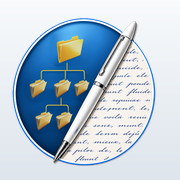
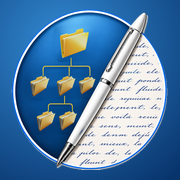
v79: iconiță nouă pe fundal albastru, mai mare (full-bleed)

diff --git a/sw.js b/sw.js
@@ -1,8 +1,8 @@
 /* Notis service worker: app shell cache. HTML = network-first (updates arrive), static = cache-first.
    Voice model files (Mihai, own cache "jarvis-piper-v1") and weather (Open-Meteo) are NOT touched: passed straight to the network. */
-var VERSION='notis-shell-v78';
-var SHELL=['./','index.html','manifest.webmanifest?v=78','icons/sc-new-96.png','icons/sc-search-96.png','icons/sc-cart-96.png',
- 'icons/favicon.png?v=78','icons/icon-192.png?v=78','icons/classic-icon-192.png?v=78','icons/icon-512.png?v=78','icons/apple-touch-icon.png?v=78','art/jad-t.svg','art/jad-b.svg','art/lac-t.svg','art/lac-b.svg','art/tus-t.svg','art/tus-b.svg','art/paper.svg','art/neon-b.svg','art/papyrus.svg','art/pap-t.svg','art/pap-b.svg','art/m-sakura.svg','art/lup-d.webp','art/lup-l.webp','art/flag-hdr.webp','art/salon-marble.svg','art/cleo-q.svg','art/cleo-b.svg','art/cleo-l.svg','art/cleo-pap.svg','art/bg-lup-t.webp','art/bg-mist-t.webp','art/bg-forest-t.webp','art/bg-lake-t.webp','art/bg-sea-t.webp','art/bg-snow-t.webp','art/bg-night-t.webp','art/demo-draw.webp','art/demo-rec.m4a','i18n/en.js','i18n/fr.js','i18n/de.js','i18n/it.js','i18n/hu.js','i18n/ru.js','manifest-en.webmanifest','manifest-fr.webmanifest','manifest-de.webmanifest','manifest-it.webmanifest','manifest-hu.webmanifest','manifest-ru.webmanifest'];
+var VERSION='notis-shell-v79';
+var SHELL=['./','index.html','manifest.webmanifest?v=79','icons/sc-new-96.png','icons/sc-search-96.png','icons/sc-cart-96.png',
+ 'icons/favicon.png?v=79','icons/icon-192.png?v=79','icons/classic-icon-192.png?v=79','icons/icon-512.png?v=79','icons/apple-touch-icon.png?v=79','art/jad-t.svg','art/jad-b.svg','art/lac-t.svg','art/lac-b.svg','art/tus-t.svg','art/tus-b.svg','art/paper.svg','art/neon-b.svg','art/papyrus.svg','art/pap-t.svg','art/pap-b.svg','art/m-sakura.svg','art/lup-d.webp','art/lup-l.webp','art/flag-hdr.webp','art/salon-marble.svg','art/cleo-q.svg','art/cleo-b.svg','art/cleo-l.svg','art/cleo-pap.svg','art/bg-lup-t.webp','art/bg-mist-t.webp','art/bg-forest-t.webp','art/bg-lake-t.webp','art/bg-sea-t.webp','art/bg-snow-t.webp','art/bg-night-t.webp','art/demo-draw.webp','art/demo-rec.m4a','i18n/en.js','i18n/fr.js','i18n/de.js','i18n/it.js','i18n/hu.js','i18n/ru.js','manifest-en.webmanifest','manifest-fr.webmanifest','manifest-de.webmanifest','manifest-it.webmanifest','manifest-hu.webmanifest','manifest-ru.webmanifest'];
 var FONT_HOSTS=/^https:\/\/(fonts\.googleapis\.com|fonts\.gstatic\.com)\//,DSEG=/^https:\/\/cdn\.jsdelivr\.net\/npm\/dseg@/;
 self.addEventListener('install',function(e){e.waitUntil(caches.open(VERSION).then(function(c){
  return Promise.all(SHELL.map(function(u){return c.add(new Request(u,{cache:'reload'})).catch(function(){})}))}).then(function(){return self.skipWaiting()}))});

diff --git a/index.html b/index.html
@@ -43,9 +43,9 @@ if(NL!=='ro')(function(){var SKIP='.ux,textarea,input,select option[data-u],.t,.
  TR.walk=walkN;
  document.addEventListener('DOMContentLoaded',function(){var lm=document.querySelector('link[rel=manifest]');if(lm)lm.href='manifest-'+NL+'.webmanifest?v=57'})})();
 </script>
-<link rel="manifest" href="manifest.webmanifest?v=78">
-<link rel="icon" type="image/png" sizes="48x48" href="icons/favicon.png?v=78">
-<link rel="apple-touch-icon" href="icons/apple-touch-icon.png?v=78">
+<link rel="manifest" href="manifest.webmanifest?v=79">
+<link rel="icon" type="image/png" sizes="48x48" href="icons/favicon.png?v=79">
+<link rel="apple-touch-icon" href="icons/apple-touch-icon.png?v=79">
 <meta name="mobile-web-app-capable" content="yes">
 <meta name="apple-mobile-web-app-capable" content="yes">
 <meta name="apple-mobile-web-app-title" content="Notis">
@@ -913,7 +913,7 @@ html.notis #modal .field:has(#sName),html.notis #modal .field:has(#sRemindUrg),h
  <div class="field" id="fBgk"><label for="sBgk">Intensitate fundal <span class="val" id="vBgk"></span></label><input type="range" id="sBgk" min="-10" max="10" step="1" aria-label="Mai estompat ↔ mai intens"><div class="bgkl"><span>mai estompat</span><span>mai intens</span></div></div>
  <div class="field" id="fNrp"><label for="sNrp">Spațiu între notițe <span class="val" id="vNrp"></span></label><input type="range" id="sNrp" min="0" max="14" step="1"></div>
  <div class="field" id="fSmg"><label for="sSmg">Margine laterală <span class="val" id="vSmg"></span></label><input type="range" id="sSmg" min="0" max="24" step="1"></div>
-<div class="sec">Iconiță</div><div class="field" id="icoField"><div class="icrow" id="icoRow"><button type="button" class="icc" data-ico="new"><img src="icons/icon-192.png?v=78" alt=""><span>Nouă</span></button><button type="button" class="icc" data-ico="classic"><img src="icons/classic-icon-192.png?v=78" alt=""><span>Clasică</span></button></div><div class="hint" id="icoHint"></div></div>
+<div class="sec">Iconiță</div><div class="field" id="icoField"><div class="icrow" id="icoRow"><button type="button" class="icc" data-ico="new"><img src="icons/icon-192.png?v=79" alt=""><span>Nouă</span></button><button type="button" class="icc" data-ico="classic"><img src="icons/classic-icon-192.png?v=79" alt=""><span>Clasică</span></button></div><div class="hint" id="icoHint"></div></div>
 <div class="nsx"> <div class="sec">Ceas</div>
  <div class="field"><label>Font</label><div class="fonts" id="fontGrid"></div></div>
  <div class="field"><label>Culoare</label><div class="colors" id="colorRow"></div></div>
